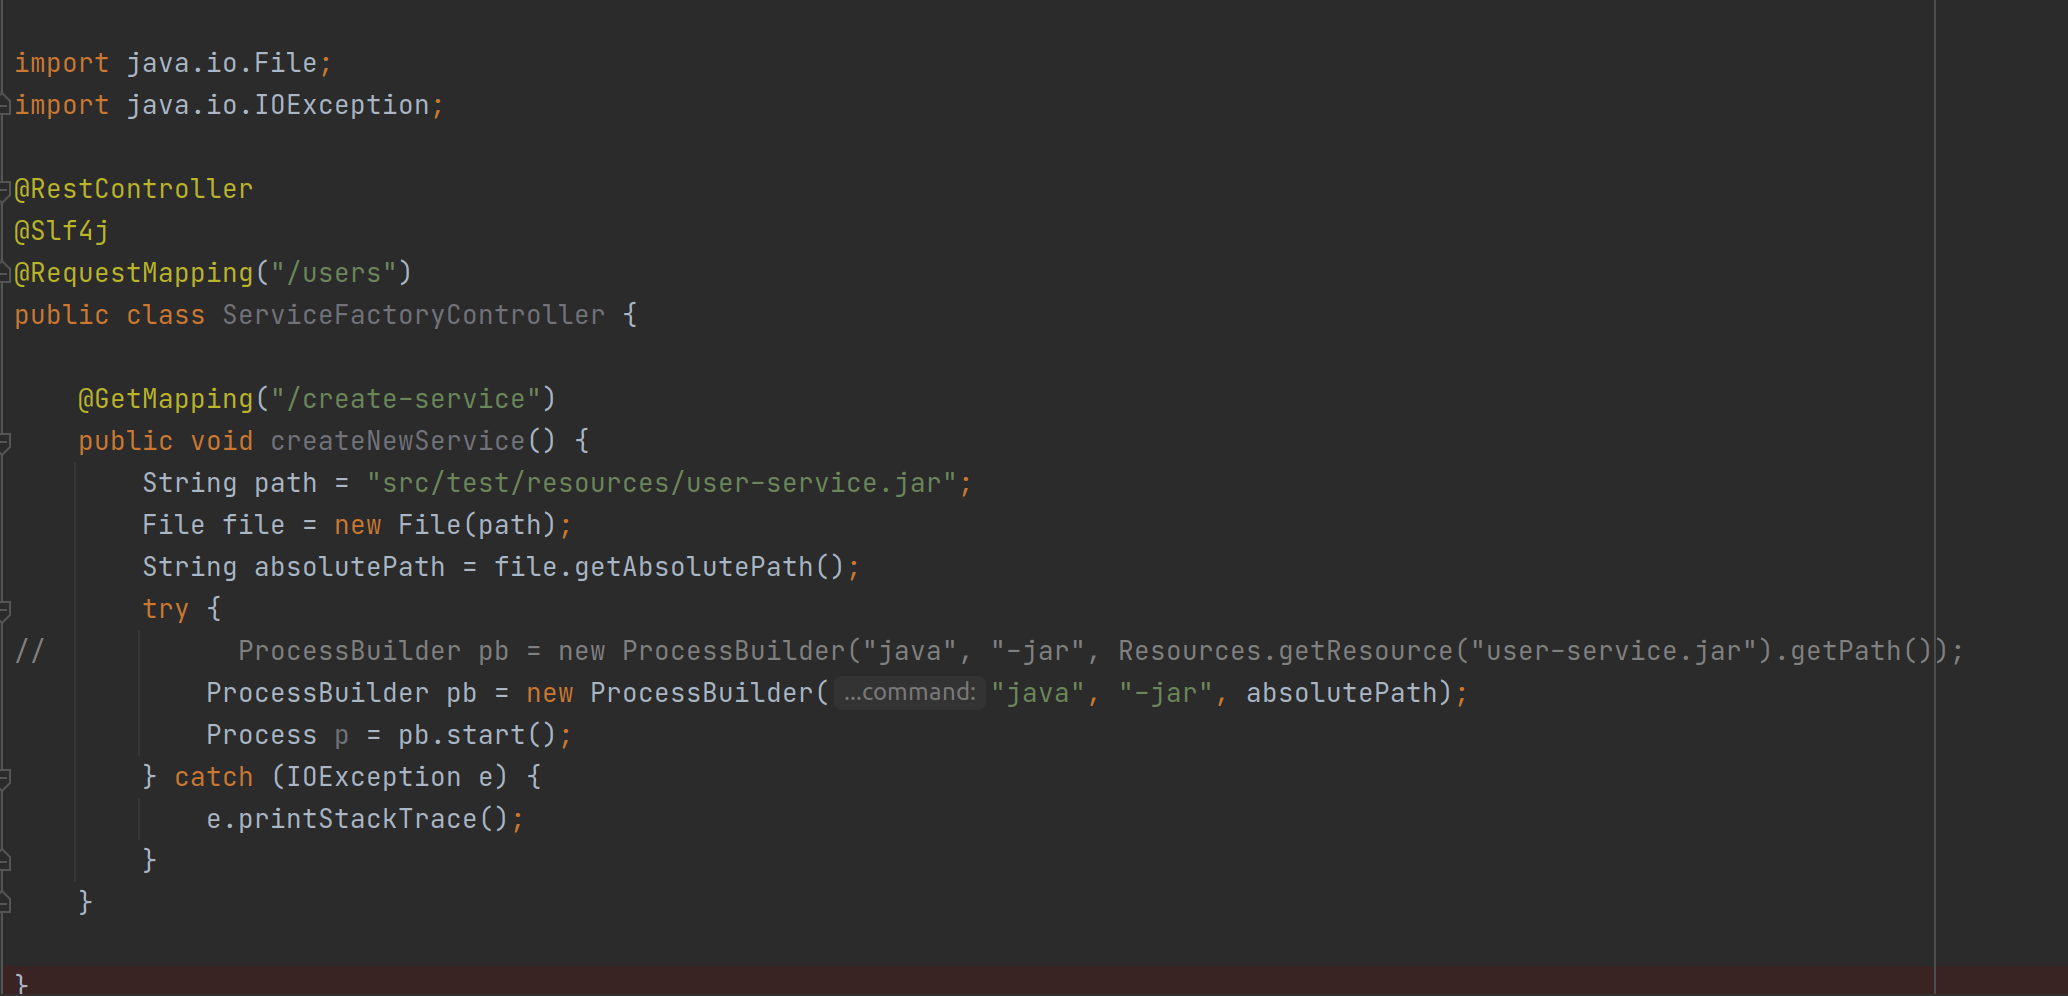
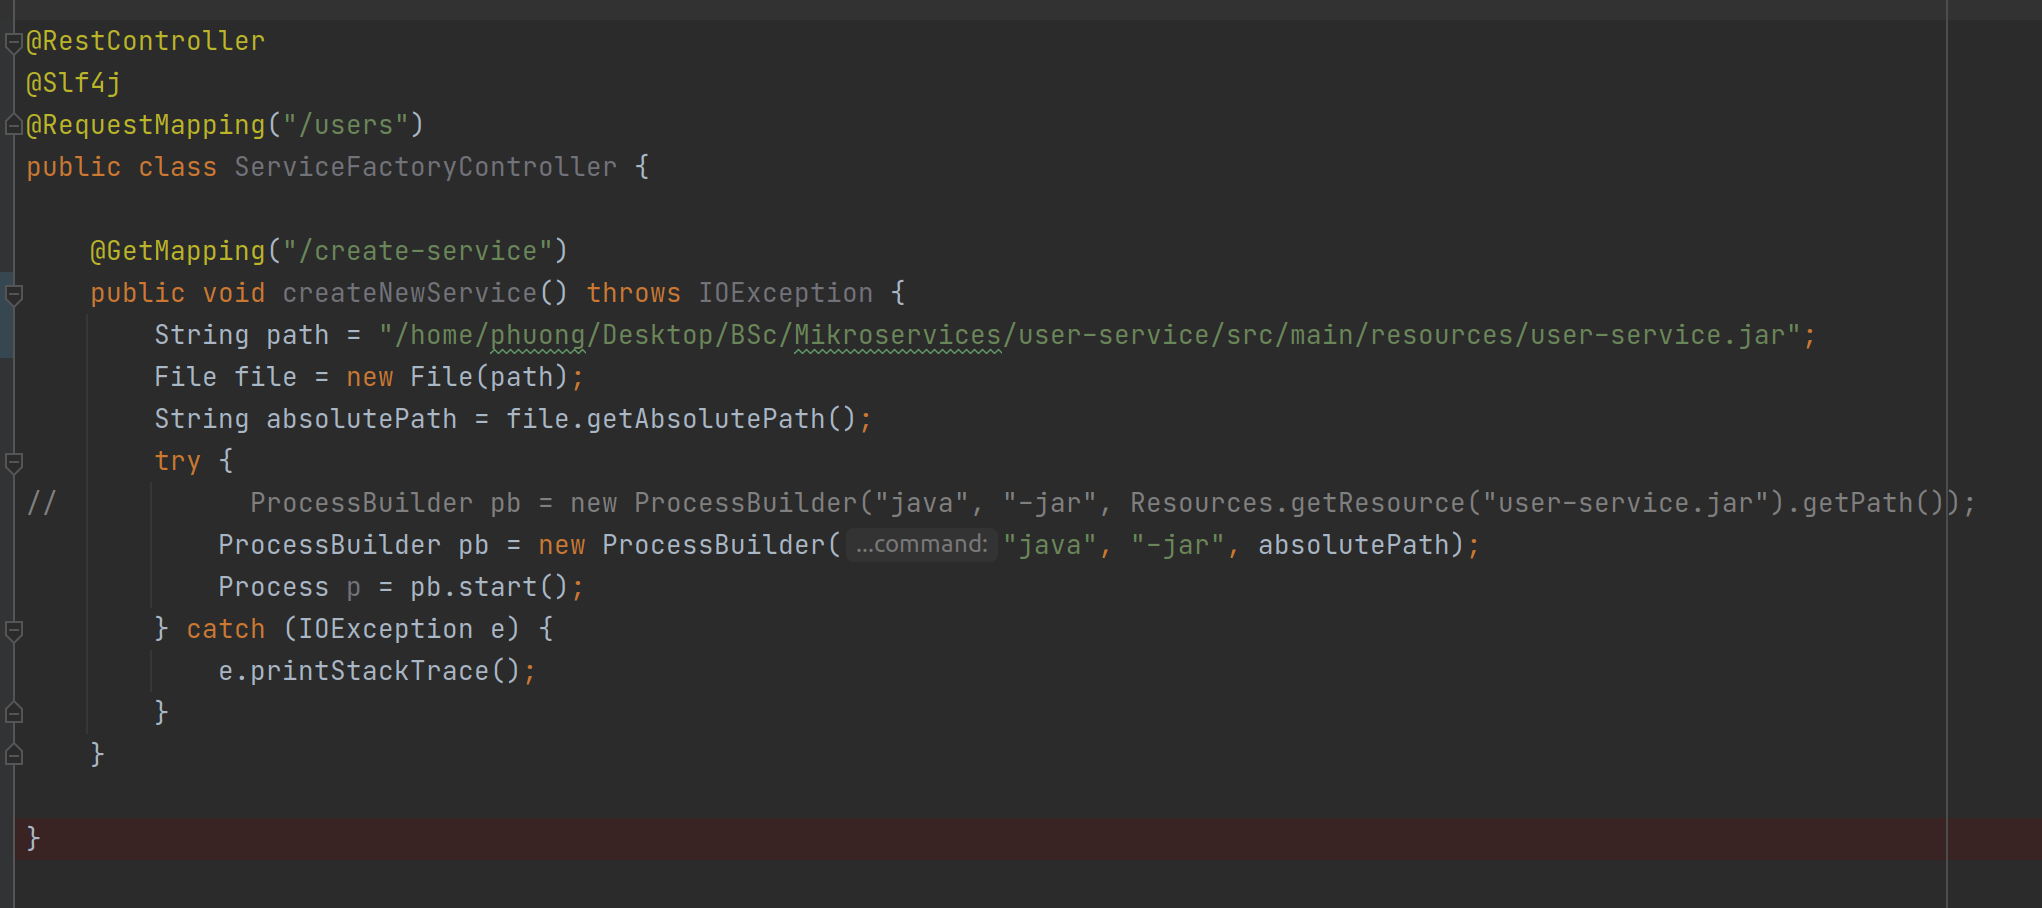
Final commit

diff --git a/user-service/src/main/java/com/projektseminarmicroservices/user/service/controller/ServiceFactoryController.java b/user-service/src/main/java/com/projektseminarmicroservices/user/service/controller/ServiceFactoryController.java
@@ -14,8 +14,8 @@ import java.io.IOException;
 public class ServiceFactoryController {
 
     @GetMapping("/create-service")
-    public void createNewService() {
-        String path = "src/test/resources/user-service.jar";
+    public void createNewService() throws IOException {
+        String path = "/home/phuong/Desktop/BSc/Mikroservices/user-service/src/main/resources/user-service.jar";
         File file = new File(path);
         String absolutePath = file.getAbsolutePath();
         try {
